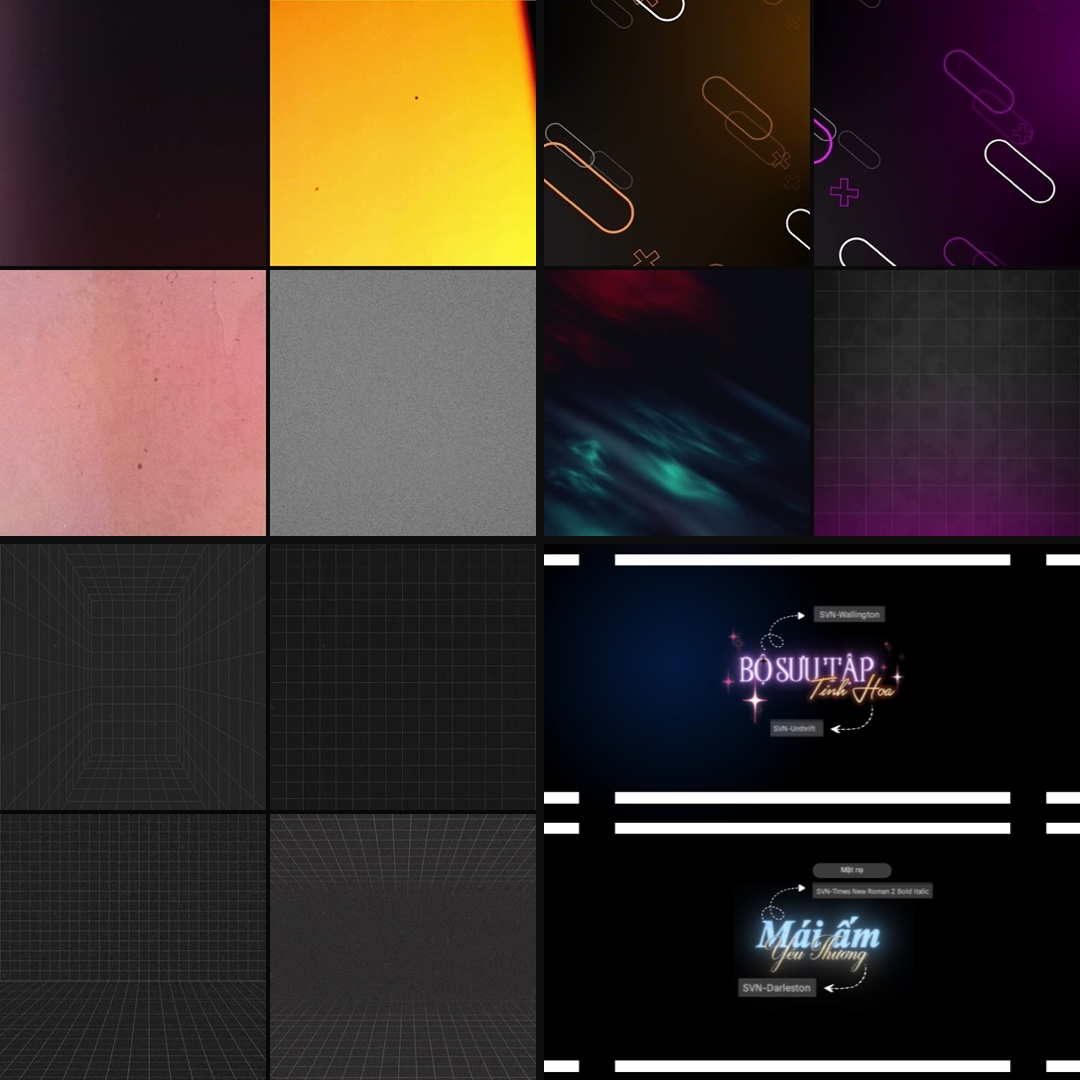
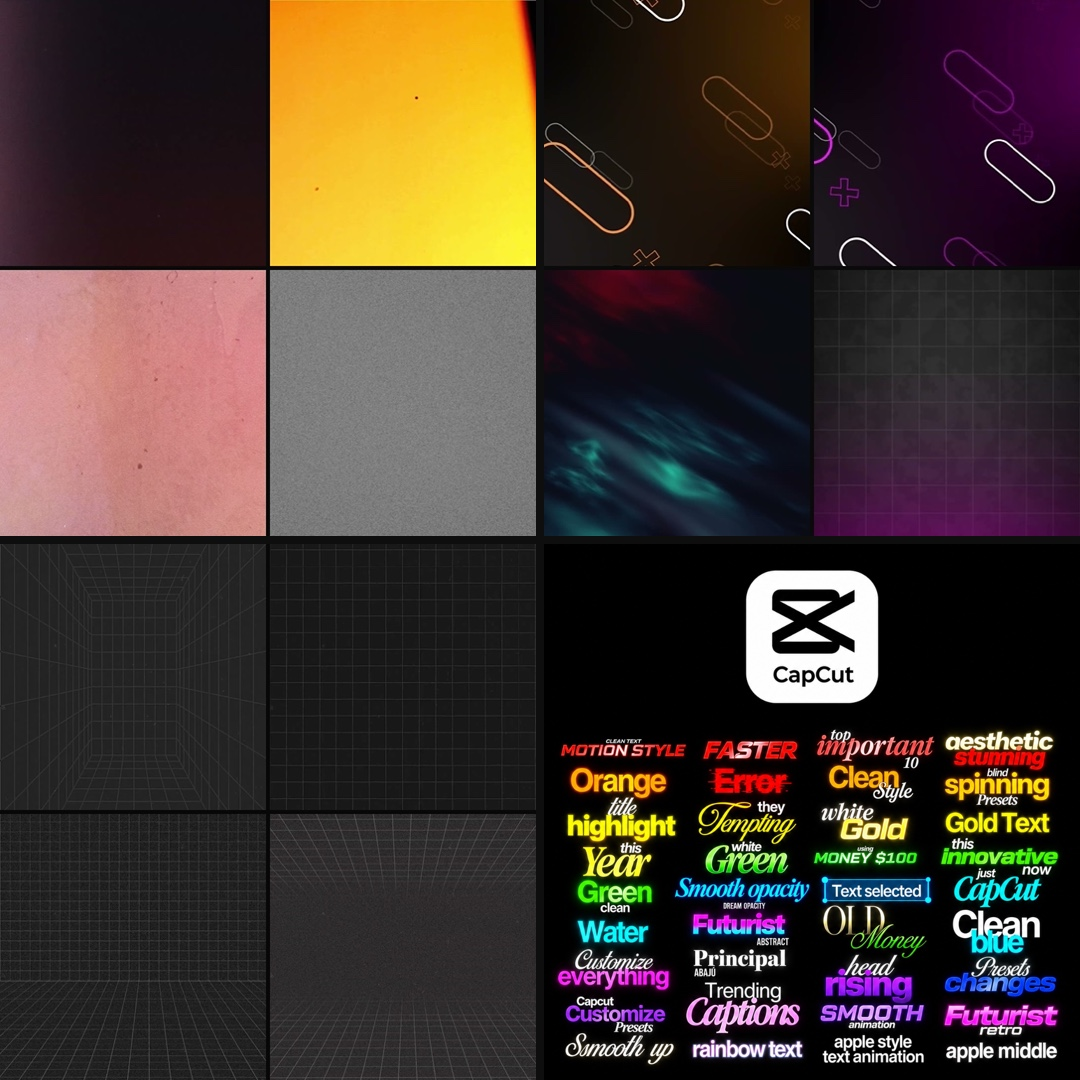
Cập nhật thumbnail Text FX CapCut và cập nhật ảnh bìa tổng FX Video

Changed region(s): [[0.4889, 0.4889, 1.0, 1.0], [0.9778, 0.4889, 1.0, 0.55], [0.4889, 0.4889, 0.55, 0.5194]]

diff --git a/script.js b/script.js
@@ -169,7 +169,7 @@ const resourceGroups = {
       { id: "fx-bg", title: "BackGround Colorful", shortTitle: "BackGround\nColorful", image: "assets/fx-bg/background-colorful.jpg", driveUrl: "https://drive.google.com/drive/folders/1e8OkXH2hP8t-z6WkZKMcz5afuFtl9PVC", cover: "linear-gradient(145deg,#a8edea,#fed6e3 30%,#6b6b6b 58%,#111)", description: "Background màu chuyển động làm nền chữ và intro." },
       { id: "fx-film", title: "Hiệu ứng Film", shortTitle: "Hiệu ứng\nFilm", image: "assets/fx-film/hieu-ung-film.jpg", driveUrl: "https://drive.google.com/drive/folders/1yqr0mXLY2y06_G9AsyVy9-hEVBRAooiB", cover: "linear-gradient(145deg,#f6d365,#fda085 28%,#6b3a2a 55%,#111)", description: "Khung Super 8mm, film burn, hạt grain & texture bụi xước cổ điển." },
       { id: "fx-doc", title: "LƯỚI EDIT VIDEO DỌC", shortTitle: "Lưới Edit\nVideo Dọc", image: "assets/fx-doc/luoi-edit-video-doc.jpg", driveUrl: "https://drive.google.com/drive/folders/14Pvzl8gNKtw6ZU108IXDmLN3910P_SyS", cover: "linear-gradient(145deg,#fddb92,#d1fdff 30%,#5b5b5b 60%,#111)", description: "Lưới căn khung video dọc 9:16 cho TikTok / Reels." },
-      { id: "fx-text-capcut", title: "Text FX CapCut", shortTitle: "Text FX CapCut", image: "assets/Mẫu8.png", driveUrl: "https://drive.google.com/drive/folders/1A6h-5iVi0T0noG9tiZmNdNGvIq9OjYLW?usp=sharing", cover: "linear-gradient(145deg,#e0c3fc,#8ec5fc 30%,#5b5b5b 60%,#111)", description: "Bộ hiệu ứng text animation cho capcut. Bản quyền thuộc Bảo Dạy Edit" }
+      { id: "fx-text-capcut", title: "Text FX CapCut", shortTitle: "Text FX CapCut", image: "assets/fx-capcut/text-fx-capcut.jpg", driveUrl: "https://drive.google.com/drive/folders/1A6h-5iVi0T0noG9tiZmNdNGvIq9OjYLW?usp=sharing", cover: "linear-gradient(145deg,#e0c3fc,#8ec5fc 30%,#5b5b5b 60%,#111)", description: "Bộ hiệu ứng text animation cho capcut. Bản quyền thuộc Bảo Dạy Edit" }
     ]
   },
   sound: {
